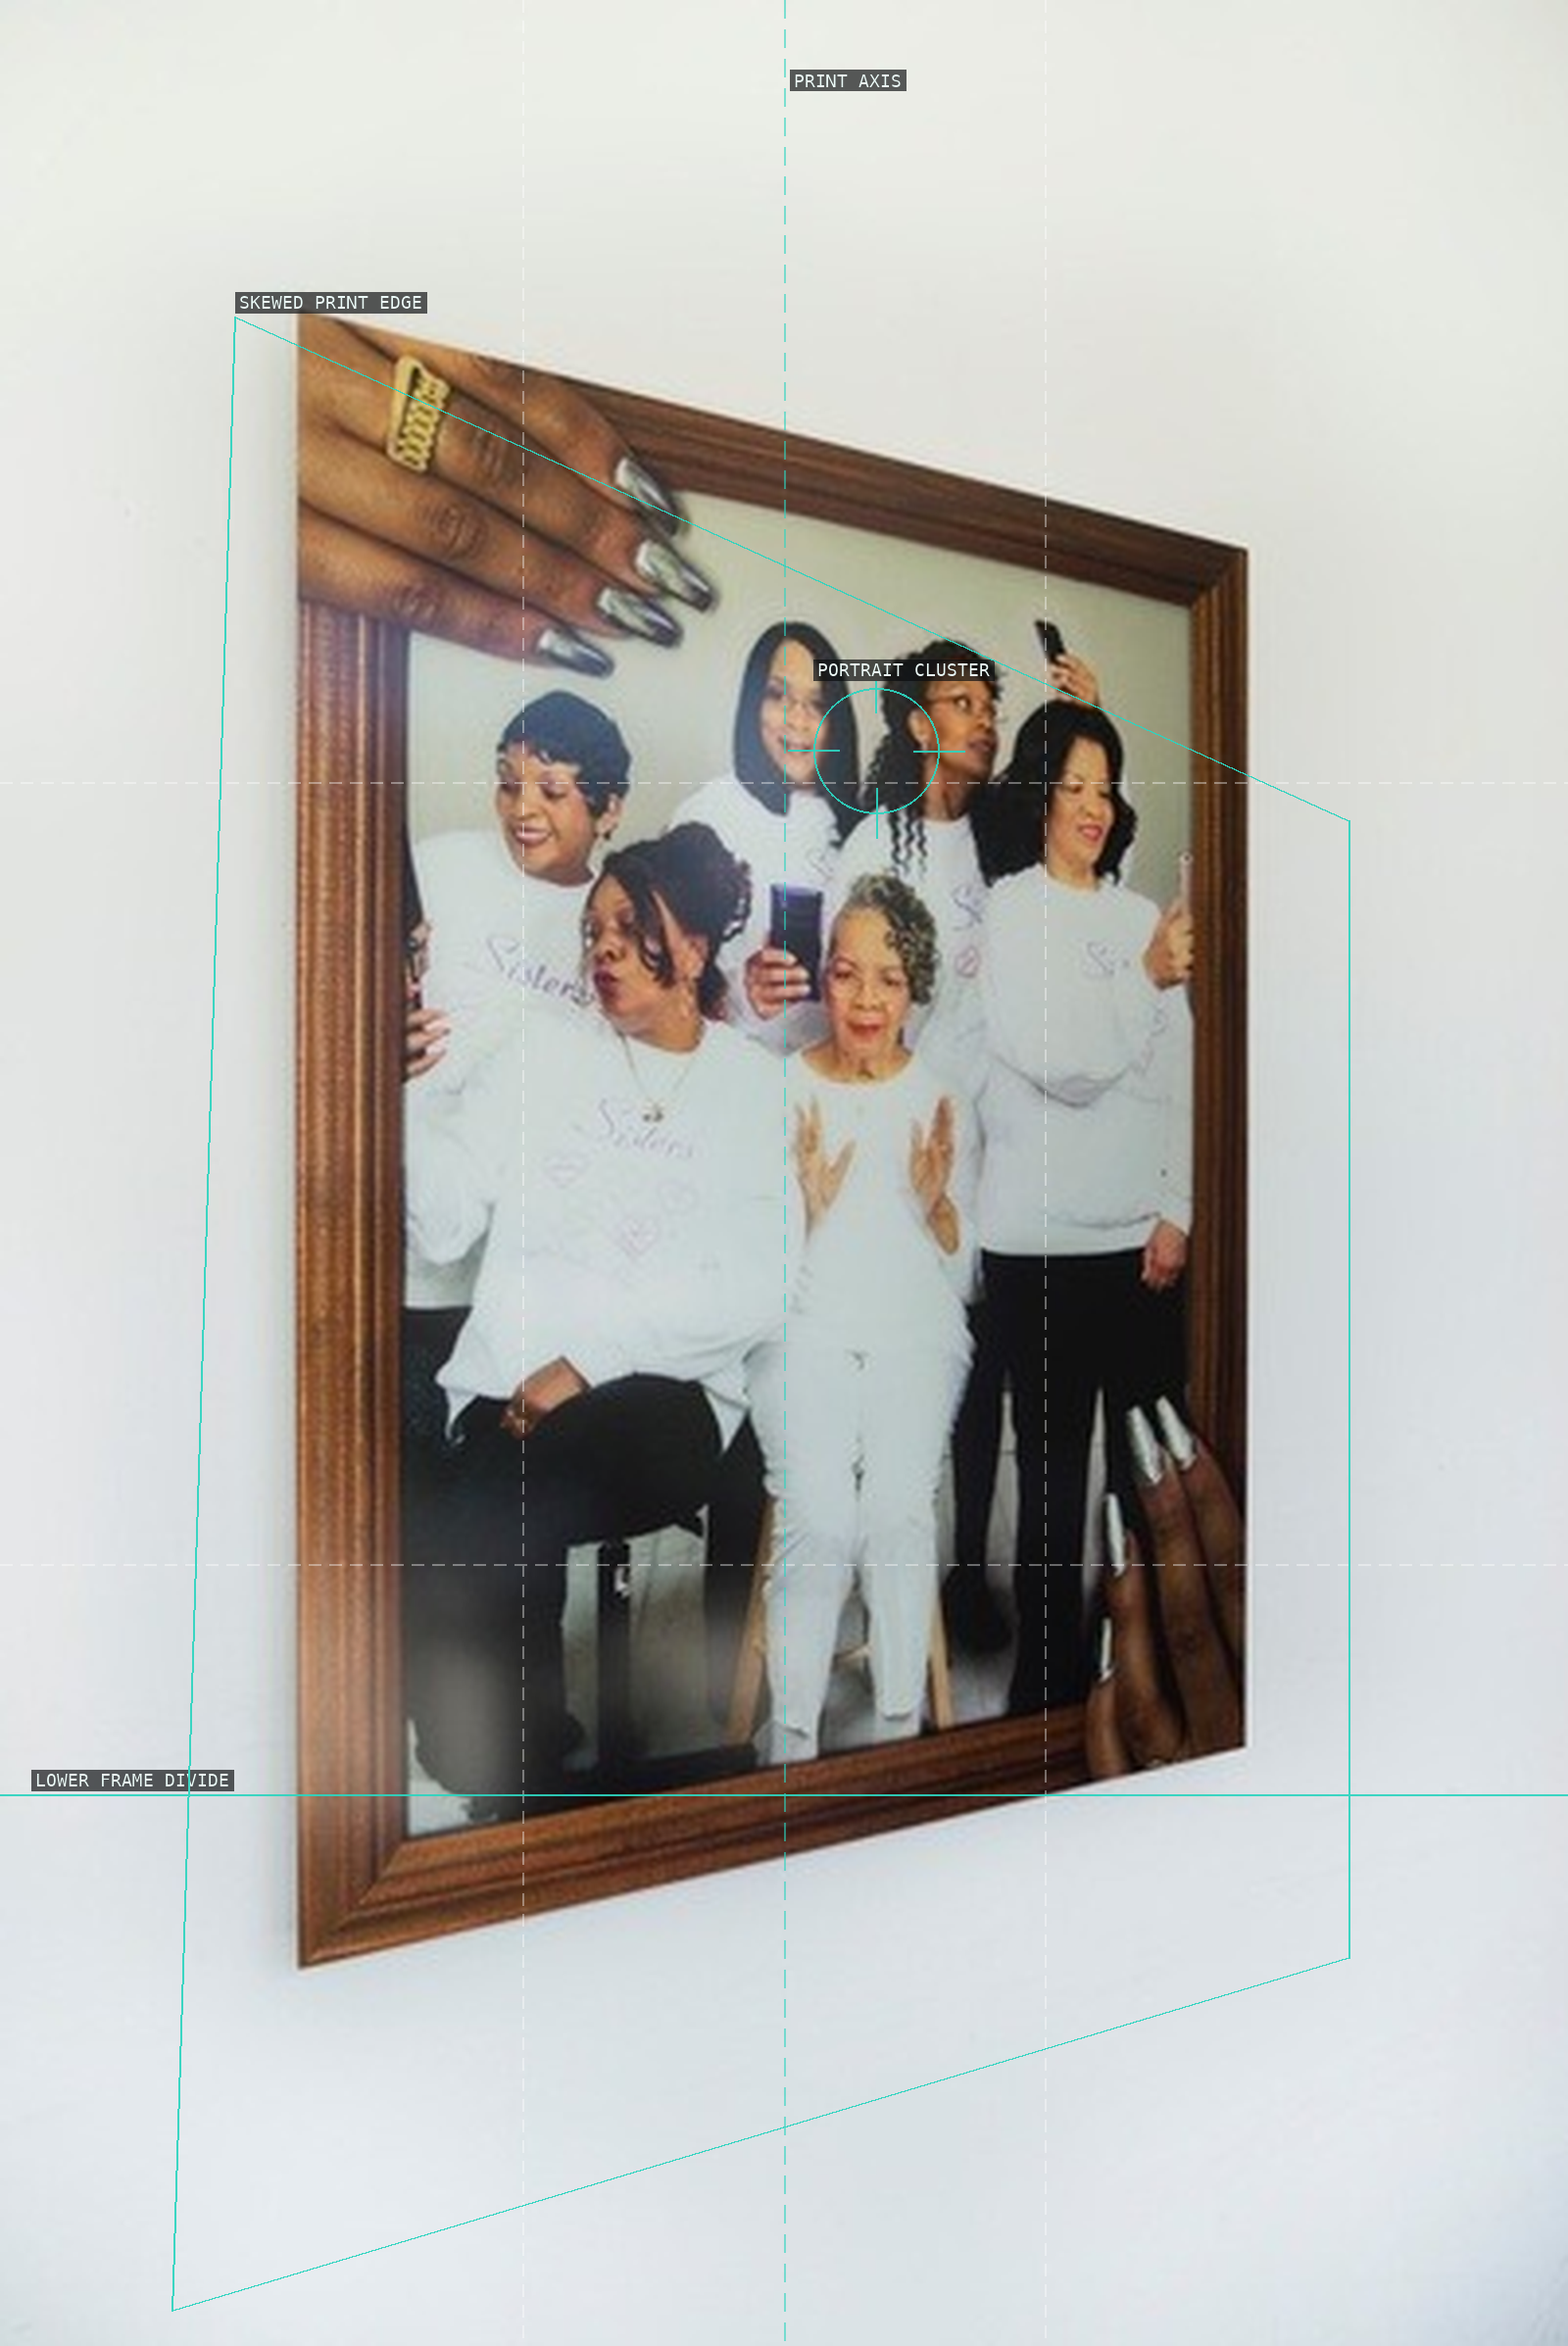
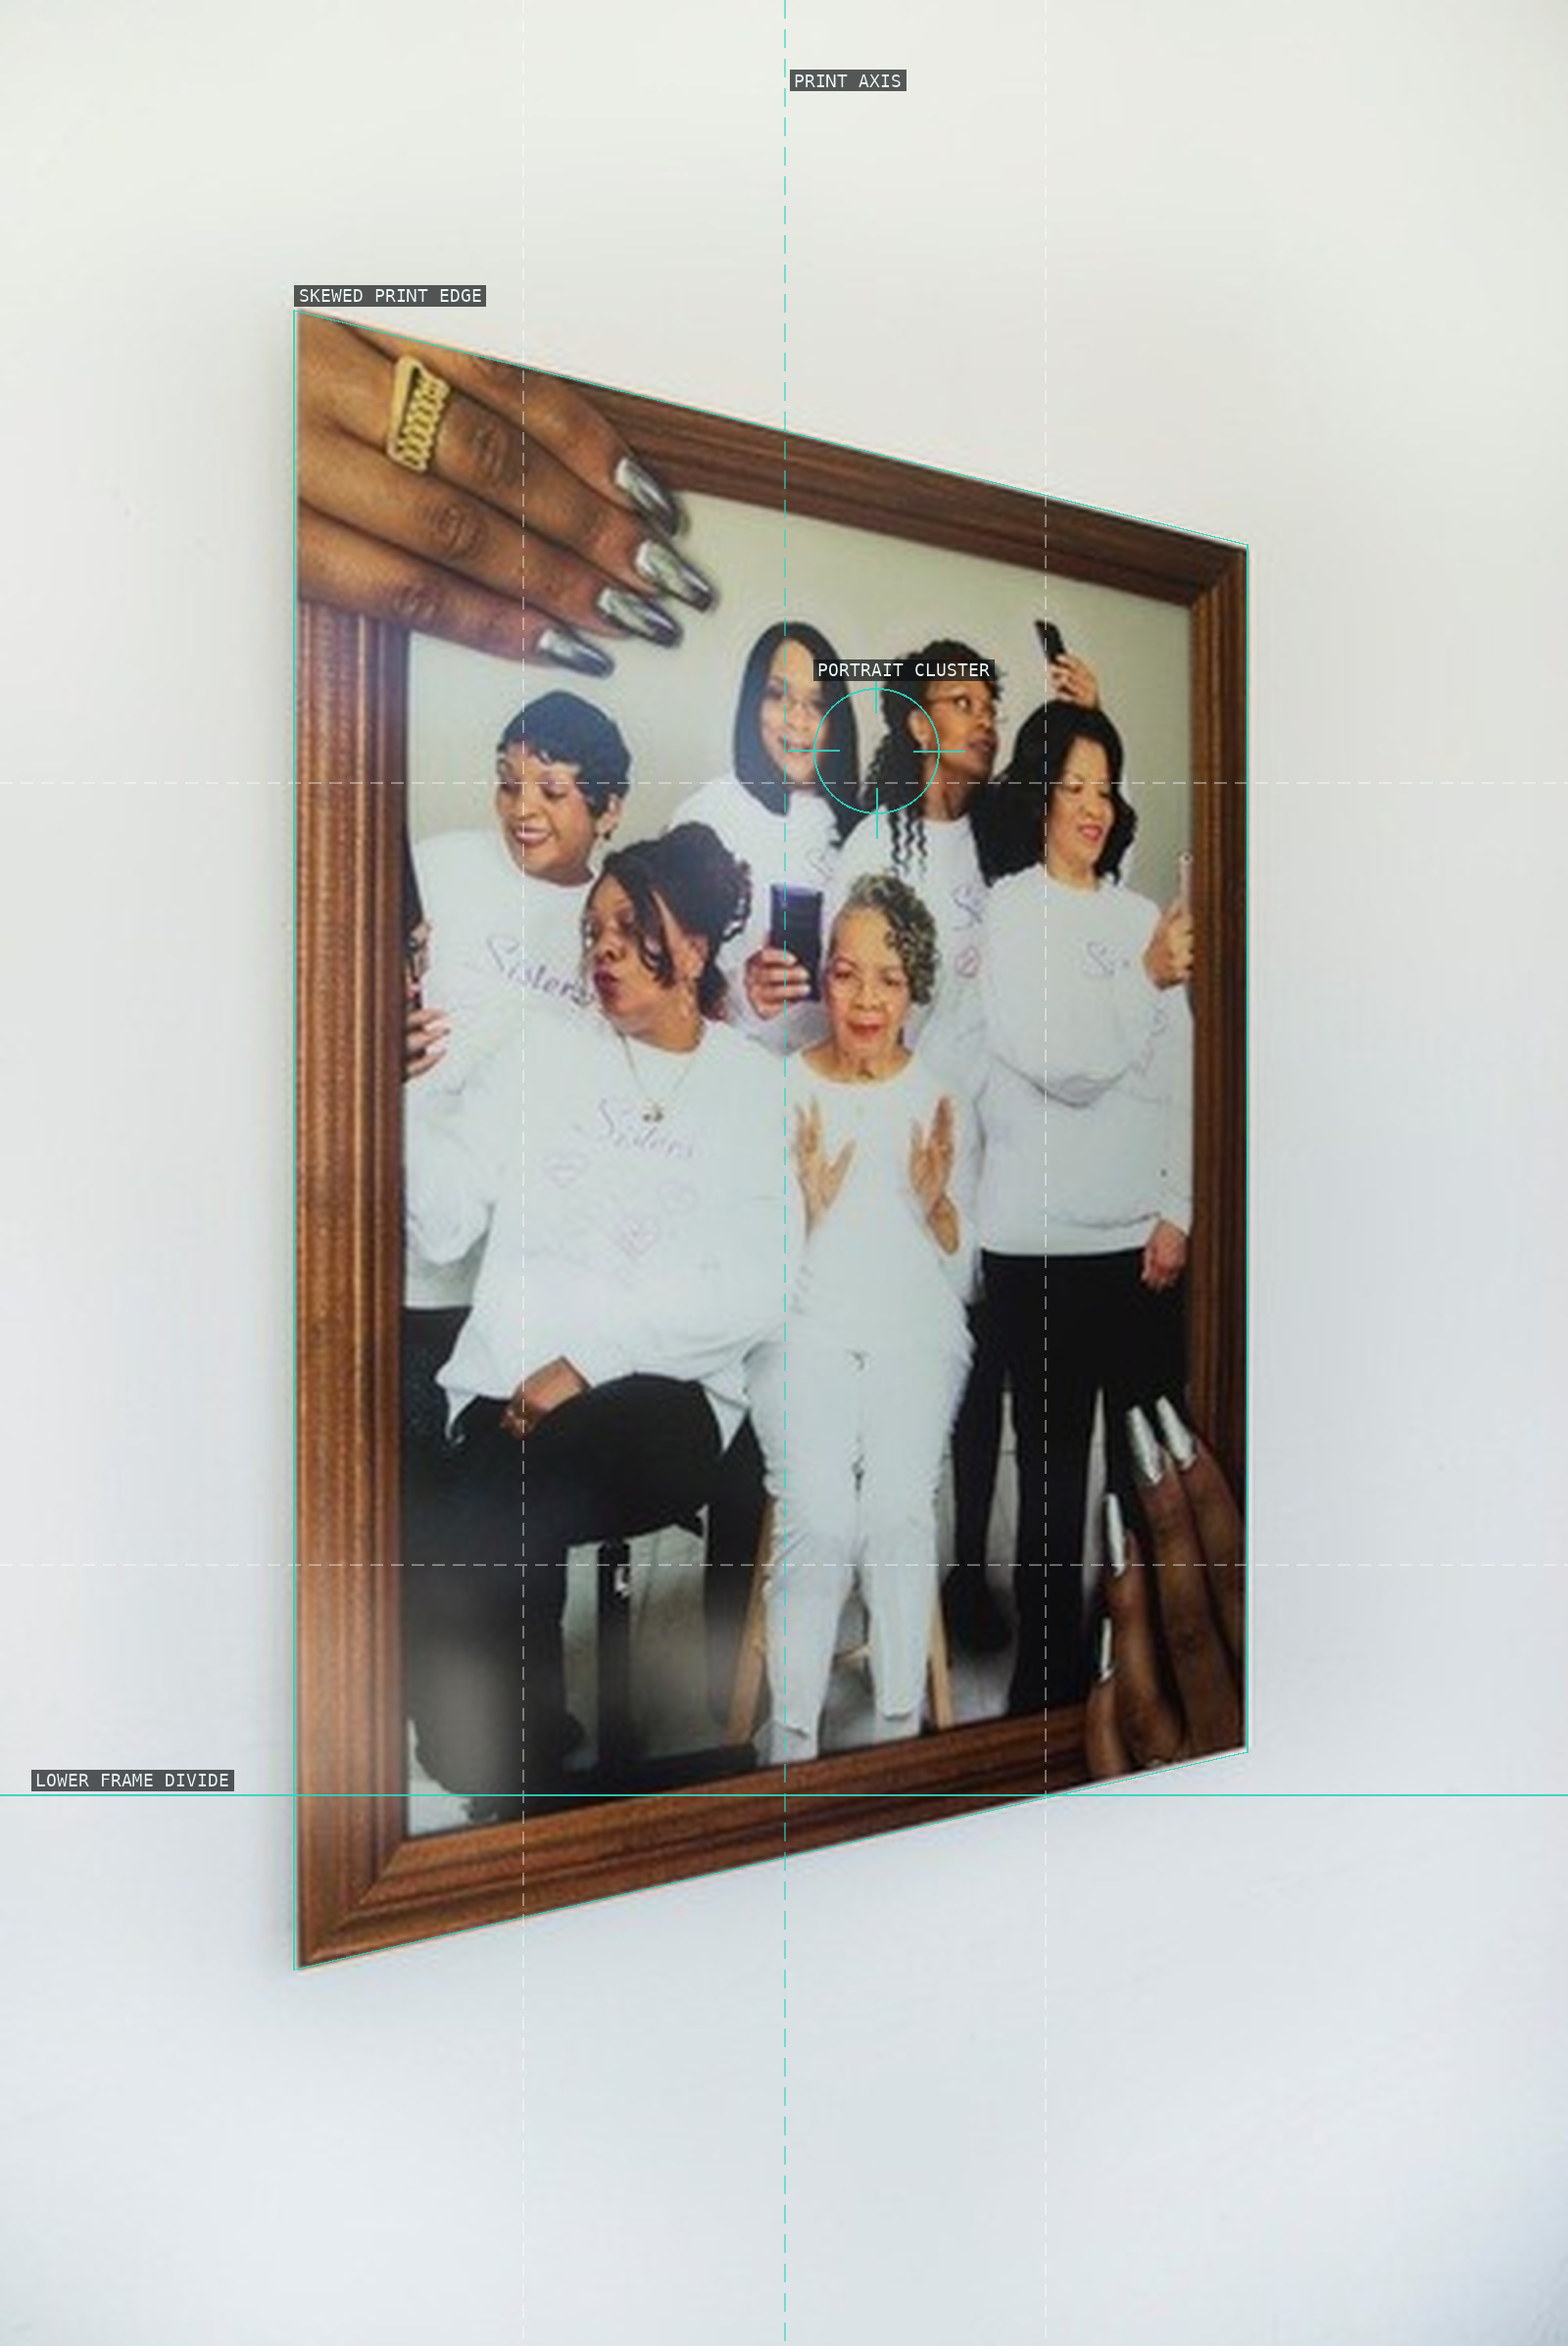
resolve critique: sondra-perry

Changed region(s): [[0.1562, 0.1236, 0.3125, 0.1546]]

diff --git a/content/sondra-perry/critique.md b/content/sondra-perry/critique.md
@@ -1,4 +1,4 @@
-verdict: revise
+verdict: resolved
 
 ## Critique round — 2026-08-04
 
@@ -50,3 +50,13 @@ All eleven current overlay specs score 100/100. The affected composites received
 - `06-title-tk-2`: the `SPLAYED SUPPORT` leading line extends slightly across bare floor after leaving the left support leg. Its primary relation to the support remains clear, so this is not a blocking discrepancy.
 
 All eleven proofs were reviewed against their current specs and analyzer records. The remaining ten overlays are materially truthful and pedagogically scoped to 3–5 primitives; every spec scores 100/100. Chapter tonal, palette, grid, and structural claims match the analyzer records within tolerance, with no invented camera settings. All eleven direct public image routes returned HTTP 200 during this review, and each source entry supplies its own four-factor fair-use rationale.
+
+## Resolution — 2026-08-04
+
+Re-verified critique history: **2026-08-04, round 1** and **2026-08-04, round 2**.
+
+1. `09-acrylic-gel-full-set`: redrew `SKEWED PRINT EDGE` directly on the four visible outer frame edges, using the measured corner positions `(0.188, 0.132)`, `(0.795, 0.232)`, `(0.795, 0.747)`, and `(0.188, 0.840)`. The caption and prose still accurately describe that corrected contour.
+2. Re-checked all seven required fixes from round 1: the paired display wall, lenticular band, projected screen, checkered-floor line, blue support curve, skewed print edge, and monitor/workstation reading remain truthful in their current proofs and chapter text.
+3. Applied the prior advisory cleanup to `06-title-tk-2`: `SPLAYED SUPPORT` now ends at the central joint instead of continuing across bare floor.
+
+All eleven current overlay specs score 100/100. Fresh visual checks are clean for the corrected overlays and every prior required-fix proof; the content and rendered chapter remain byte-identical.
